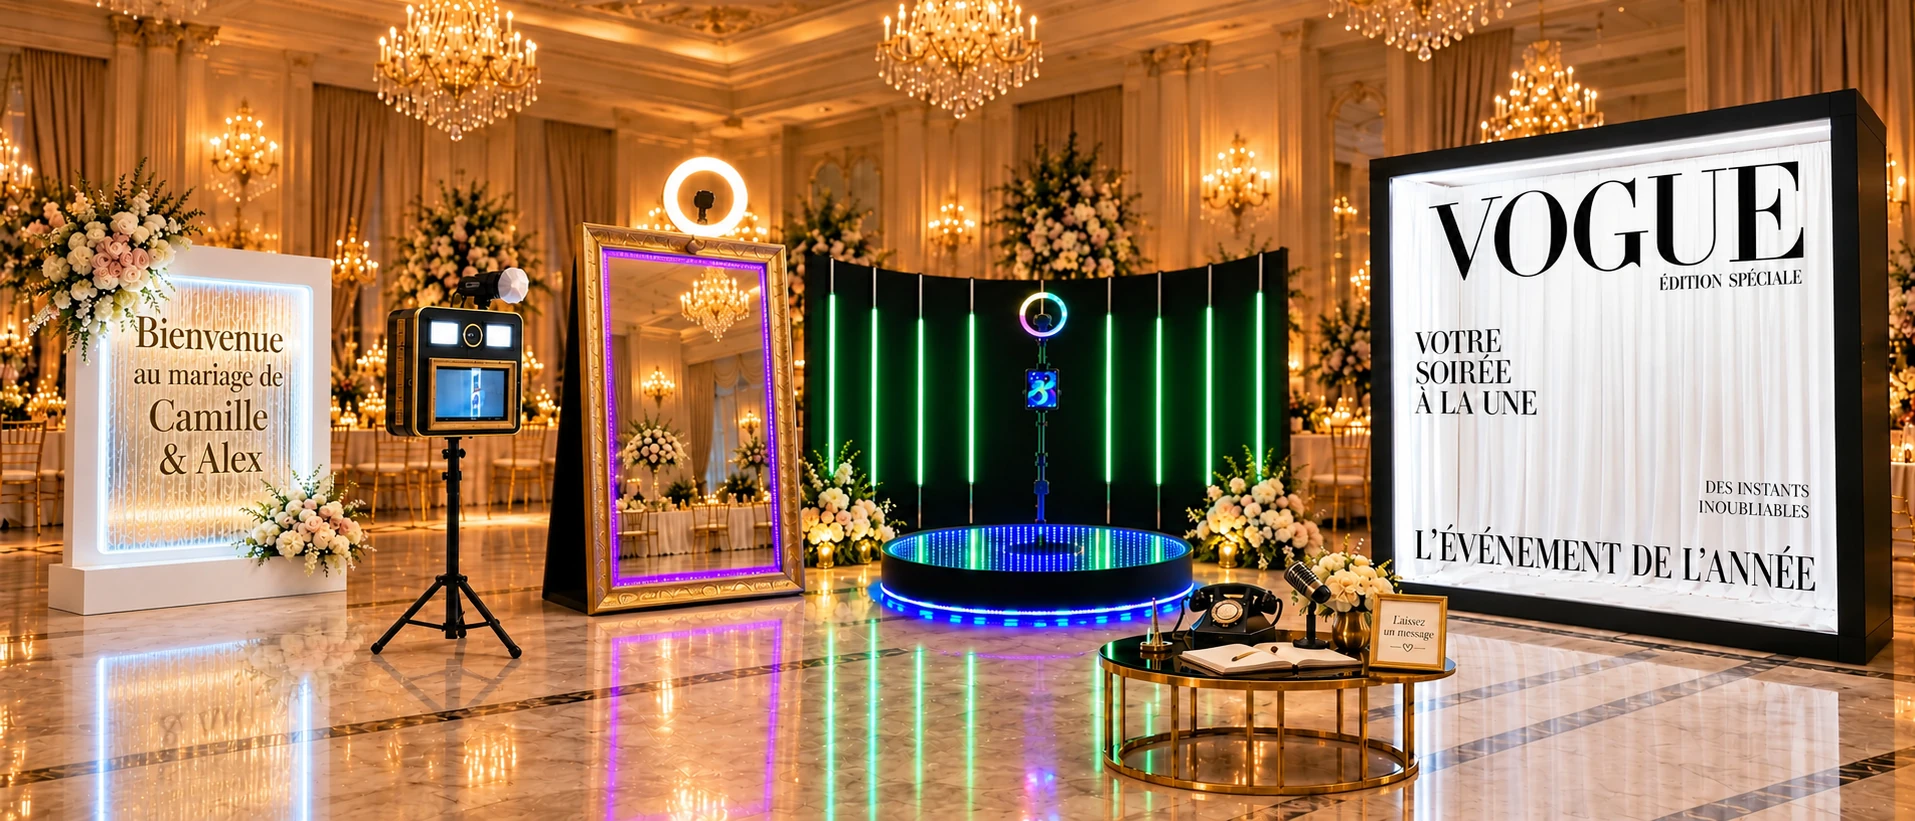
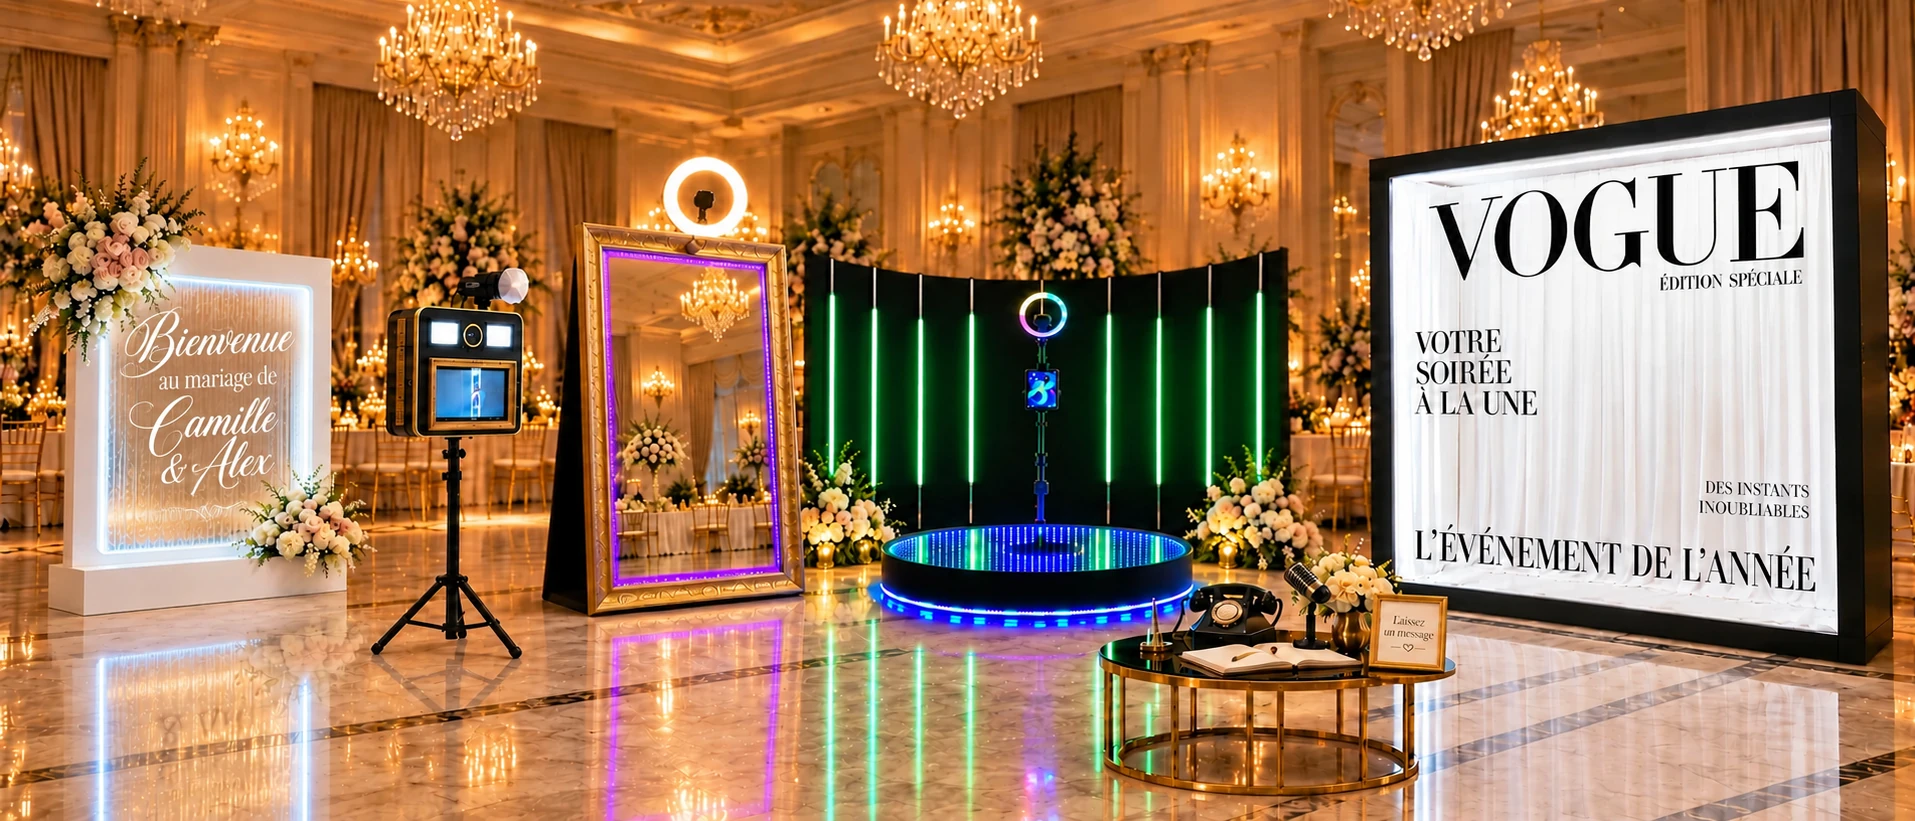
Use elegant white lettering on welcome panel (#13)

diff --git a/src/components/home/HomePage.jsx b/src/components/home/HomePage.jsx
@@ -61,7 +61,7 @@ export default function HomePage() {
         <div className="home-showcase-art">
           <div className="home-showcase-picture">
             <img
-              src="/images/ai-from-real/accueil-machines-panorama.webp?v=20261019-proportions"
+              src="/images/ai-from-real/accueil-machines-panorama.webp?v=20261019-bienvenue-blanc"
               alt="Illustration IA de nos machines : panneau fontaine sur le côté, photobooth noir et or sur trépied, miroir photo, vidéo 360 et grand Vogue Booth, avec Phonebooth et micro sur une table basse"
               width="1915"
               height="821"

diff --git a/src/pages/index.jsx b/src/pages/index.jsx
@@ -9,7 +9,7 @@ export default function Home() {
   return (
     <>
       <Head>
-        <link rel="preload" as="image" href="/images/ai-from-real/accueil-machines-panorama.webp?v=20261019-proportions" />
+        <link rel="preload" as="image" href="/images/ai-from-real/accueil-machines-panorama.webp?v=20261019-bienvenue-blanc" />
       </Head>
       <Layout
         metaProps={{
